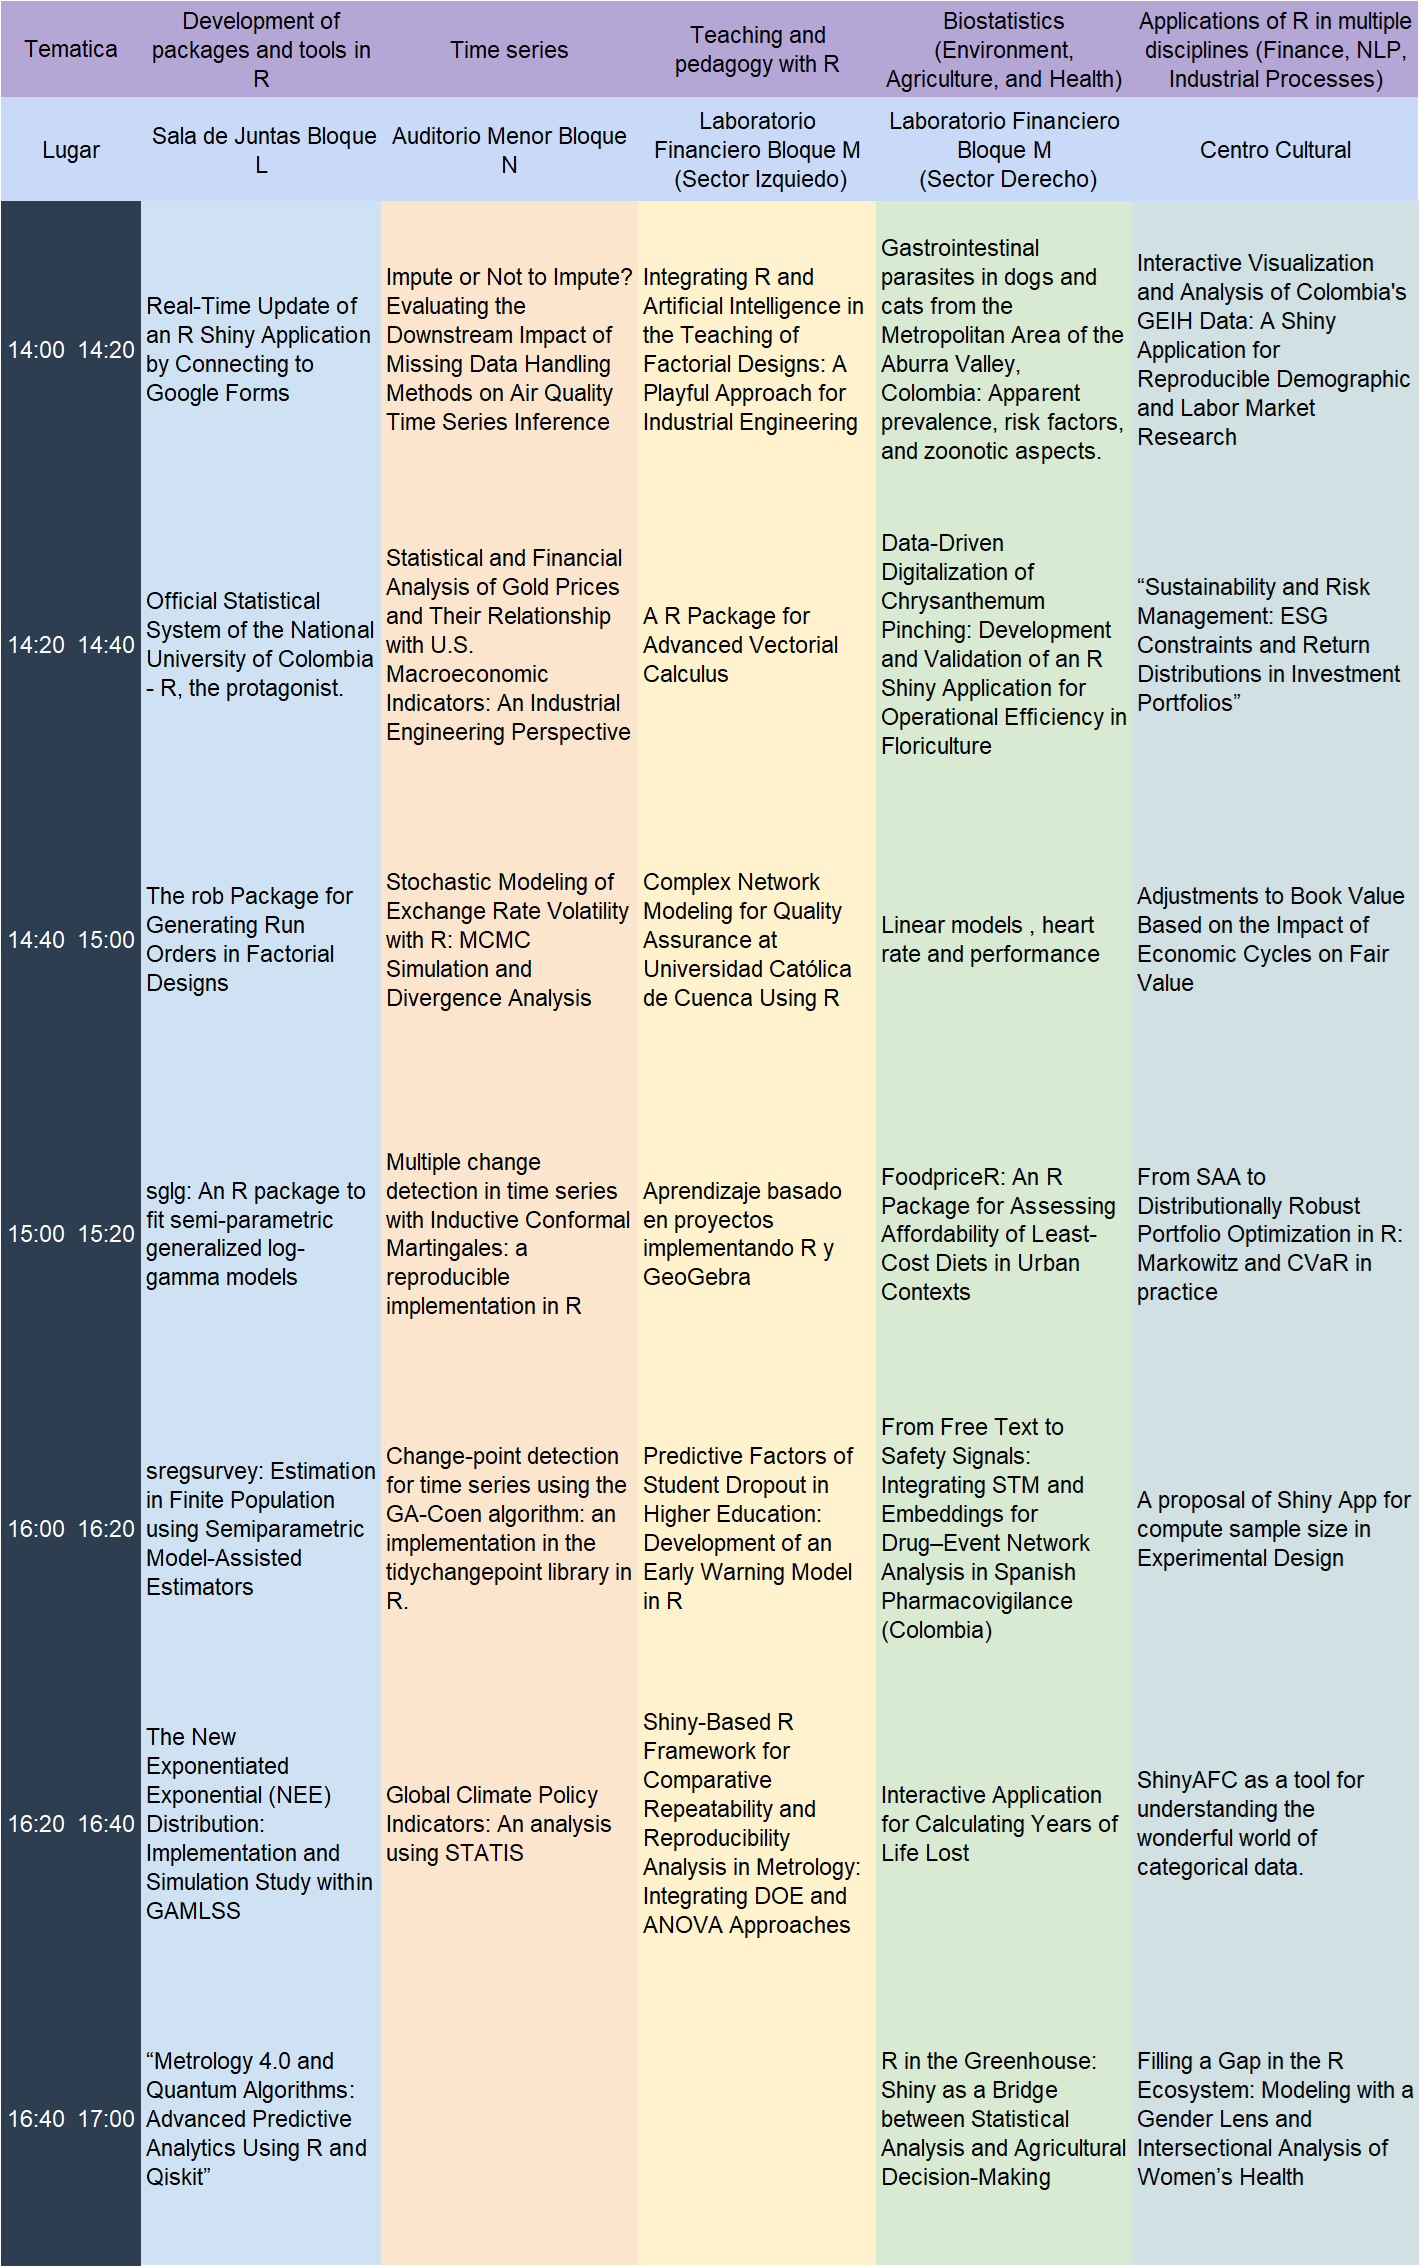
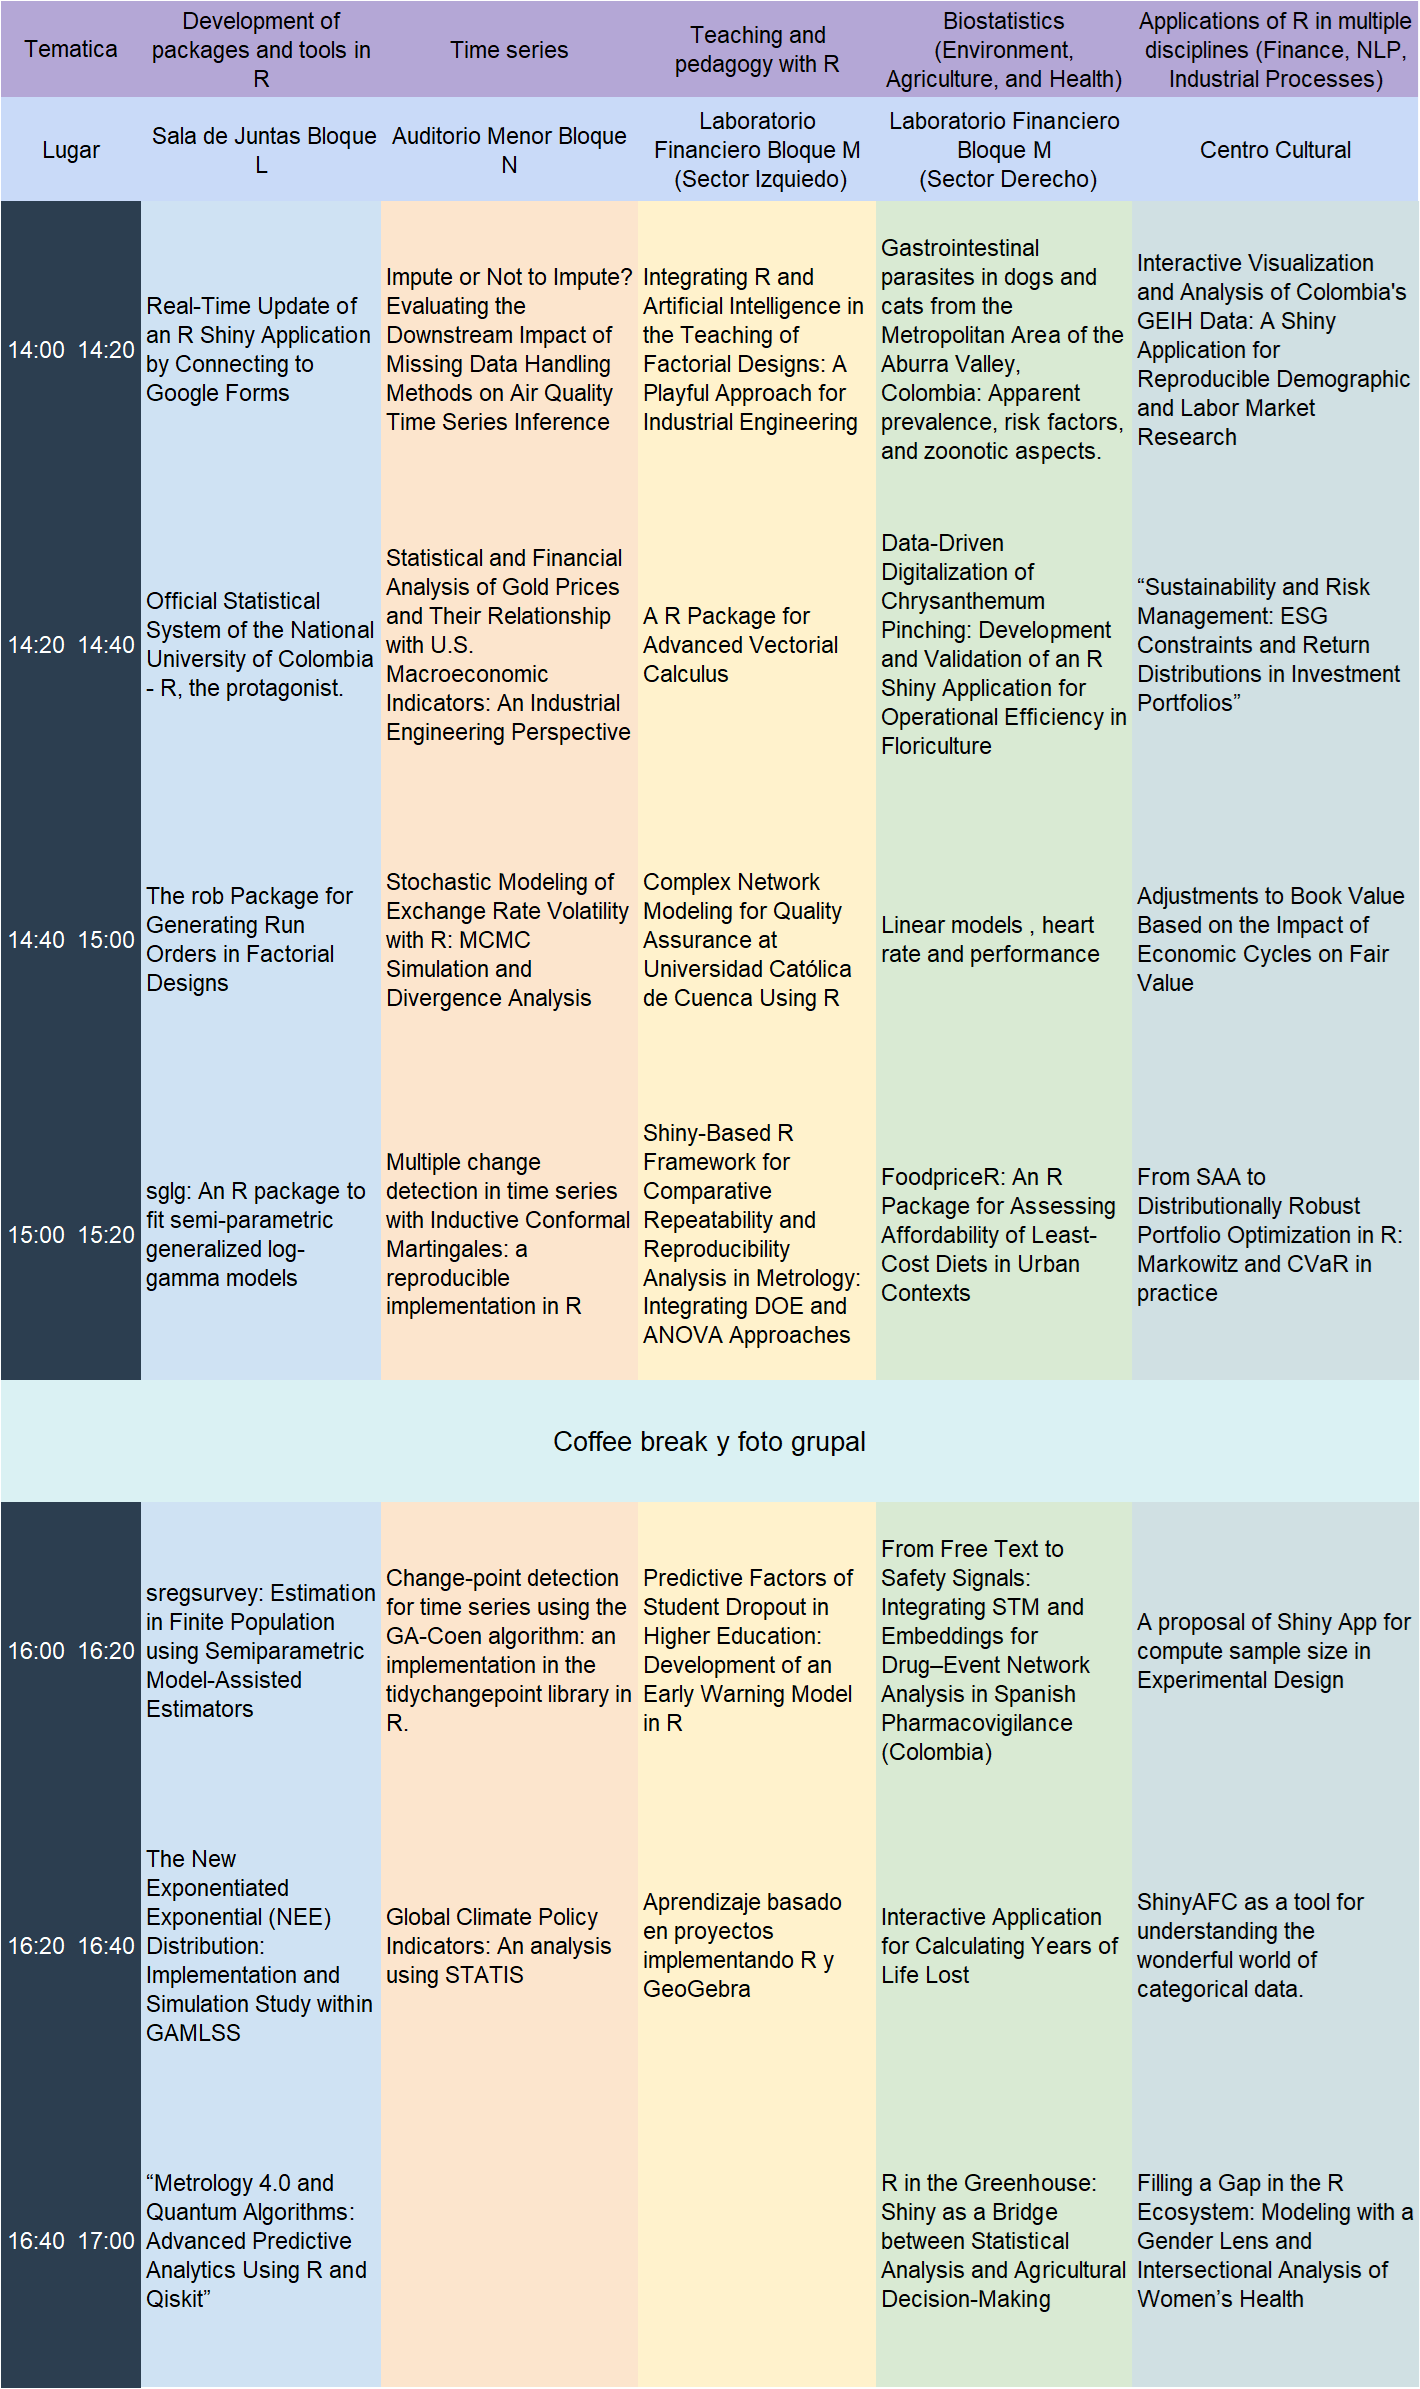
new programm

diff --git a/programa.knit.html b/programa.knit.html
@@ -255,10 +255,33 @@ $(document).ready(function () {
     <div id="navbar" class="navbar-collapse collapse">
       <ul class="nav navbar-nav">
         <li>
-  <a href="under_construction.html">Conferencistas</a>
+  <a href="conferencistas01.html">Conferencistas</a>
 </li>
 <li>
-  <a href="under_construction.html">Tutoriales</a>
+  <a href="tutoriales.html">Tutoriales</a>
+</li>
+<li class="dropdown">
+  <a href="#" class="dropdown-toggle" data-toggle="dropdown" role="button" data-bs-toggle="dropdown" aria-expanded="false">
+    Programa
+     
+    <span class="caret"></span>
+  </a>
+  <ul class="dropdown-menu" role="menu">
+    <li>
+      <a href="programa.html">
+        <span class="fa fa-calendar"></span>
+         
+        General
+      </a>
+    </li>
+    <li>
+      <a href="comunicaciones.html">
+        <span class="fa fa-calendar-check-o"></span>
+         
+        Comunicaciones
+      </a>
+    </li>
+  </ul>
 </li>
 <li class="dropdown">
   <a href="#" class="dropdown-toggle" data-toggle="dropdown" role="button" data-bs-toggle="dropdown" aria-expanded="false">
@@ -287,6 +310,15 @@ $(document).ready(function () {
   <a href="fechas.html">Fechas</a>
 </li>
 <li>
+  <a href="respuestas01.html">FAQ</a>
+</li>
+<li>
+  <a href="inscripciones.html">Inscripciones</a>
+</li>
+<li>
+  <a href="proceedings.html">Proceedings</a>
+</li>
+<li>
   <a href="comites.html">Comités</a>
 </li>
 <li>
@@ -301,7 +333,7 @@ $(document).ready(function () {
   </a>
 </li>
 <li>
-  <a href="https://github.com/rday-colombia">
+  <a href="https://github.com/rday-colombia/tutoriales_Rday_2025">
     <span class="fa fa-github"></span>
      
   </a>
@@ -309,6 +341,12 @@ $(document).ready(function () {
 <li>
   <a href="https://www.instagram.com/rdaycolombia/">
     <span class="fa fa-instagram"></span>
+     
+  </a>
+</li>
+<li>
+  <a href="https://www.youtube.com/@RDay-Col">
+    <span class="fa fa-youtube"></span>
      
   </a>
 </li>
